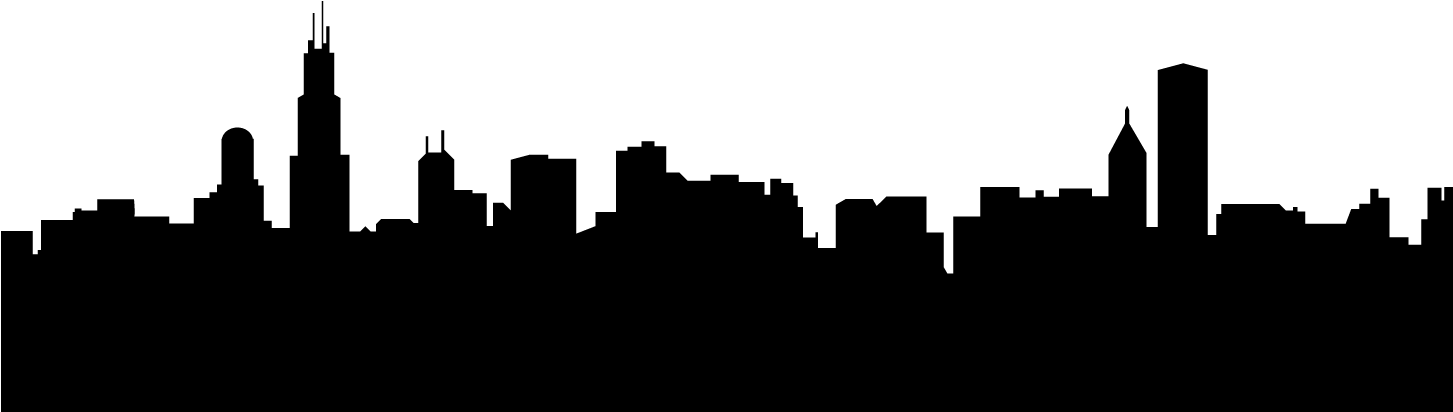
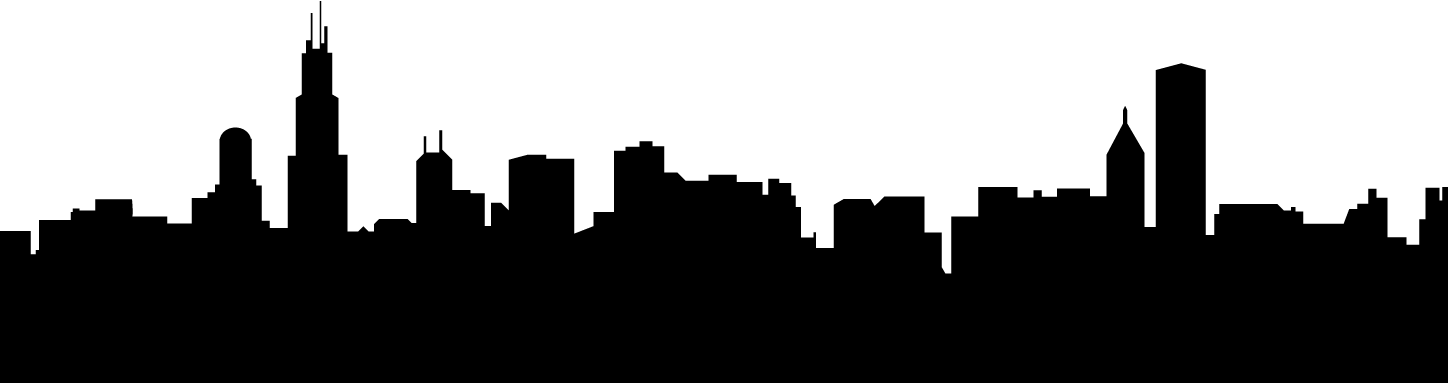
Update

diff --git a/css/style.css b/css/style.css
@@ -68,8 +68,9 @@ footer {
     position:fixed;
     width:600%;    
     bottom:0;
-    background-image: url(/img/skyline1.png);
-    background-size: contain;
+    background-image: url(/img/skyline4.png);
+    background-size: 2000px;
+    background-repeat: no-repeat;
 }
 
 .card {
